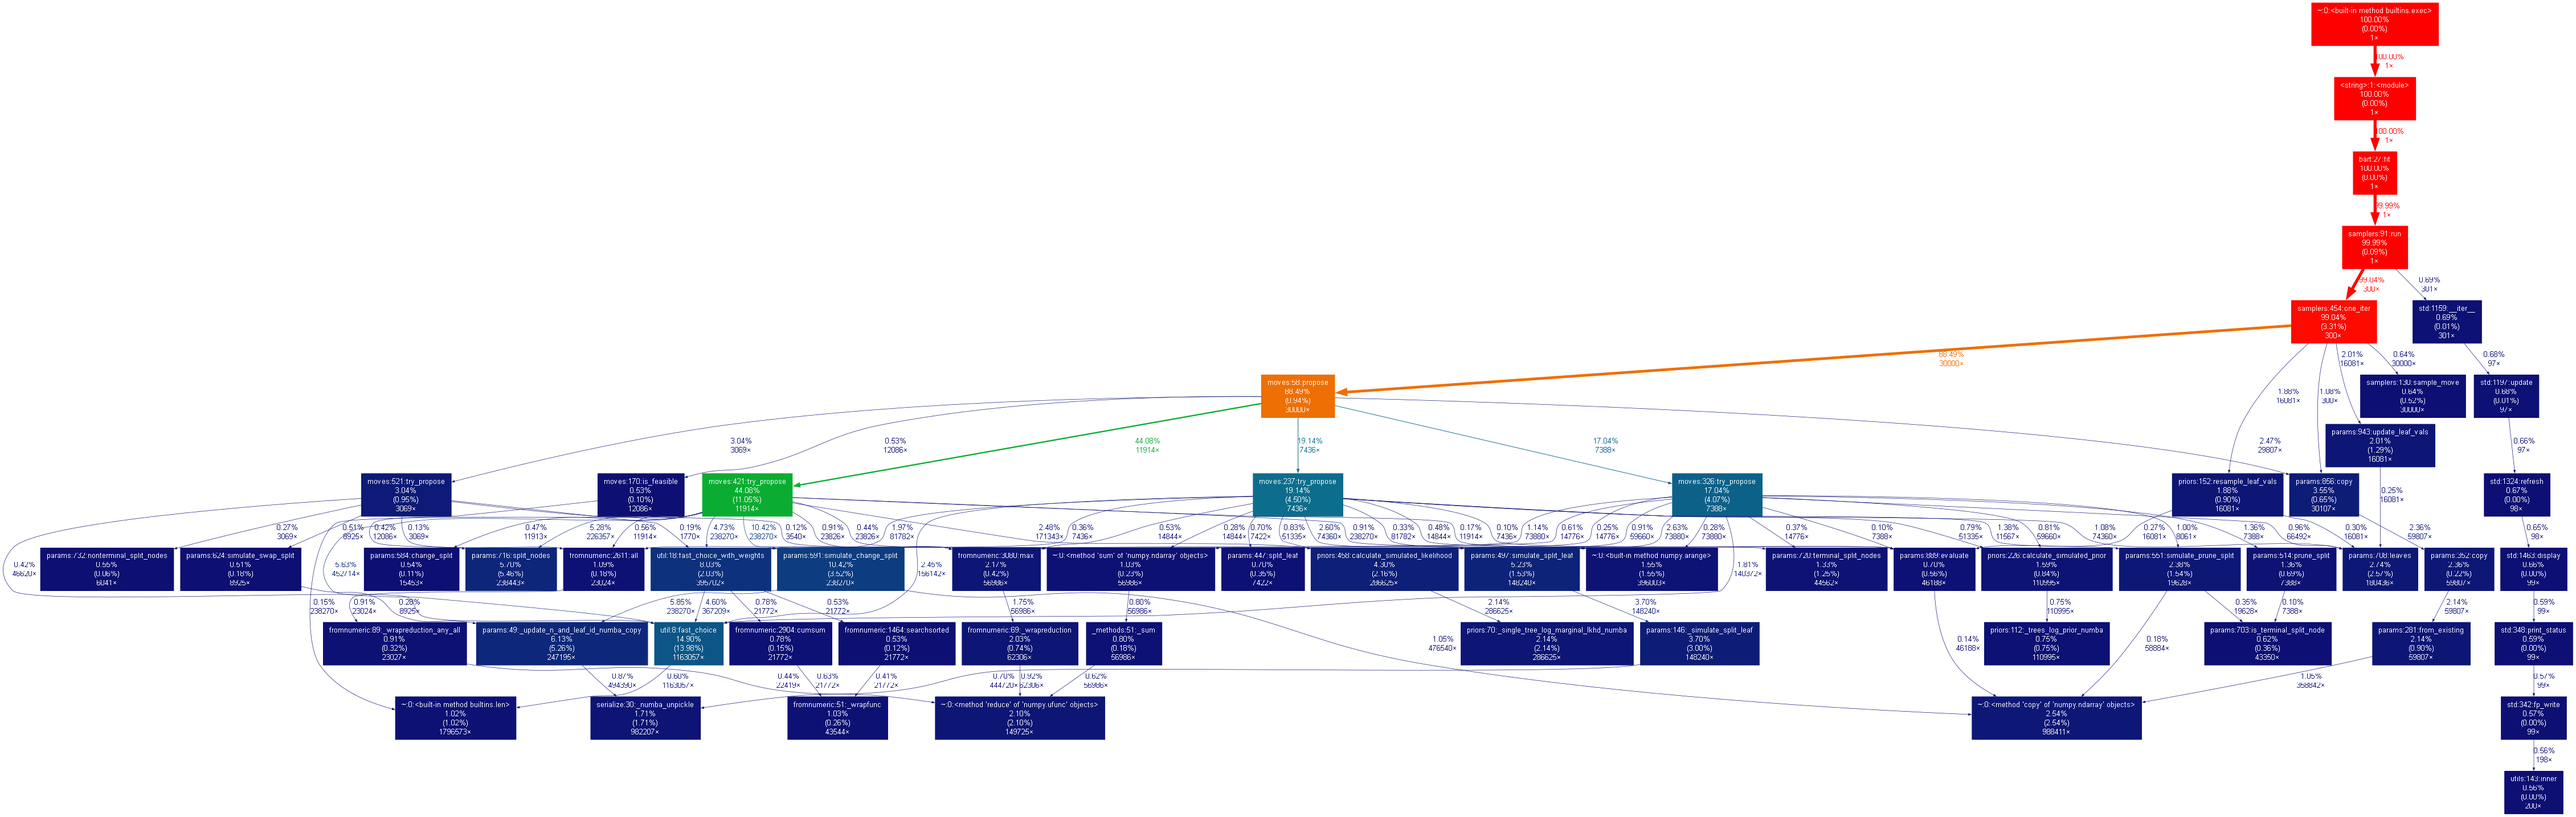
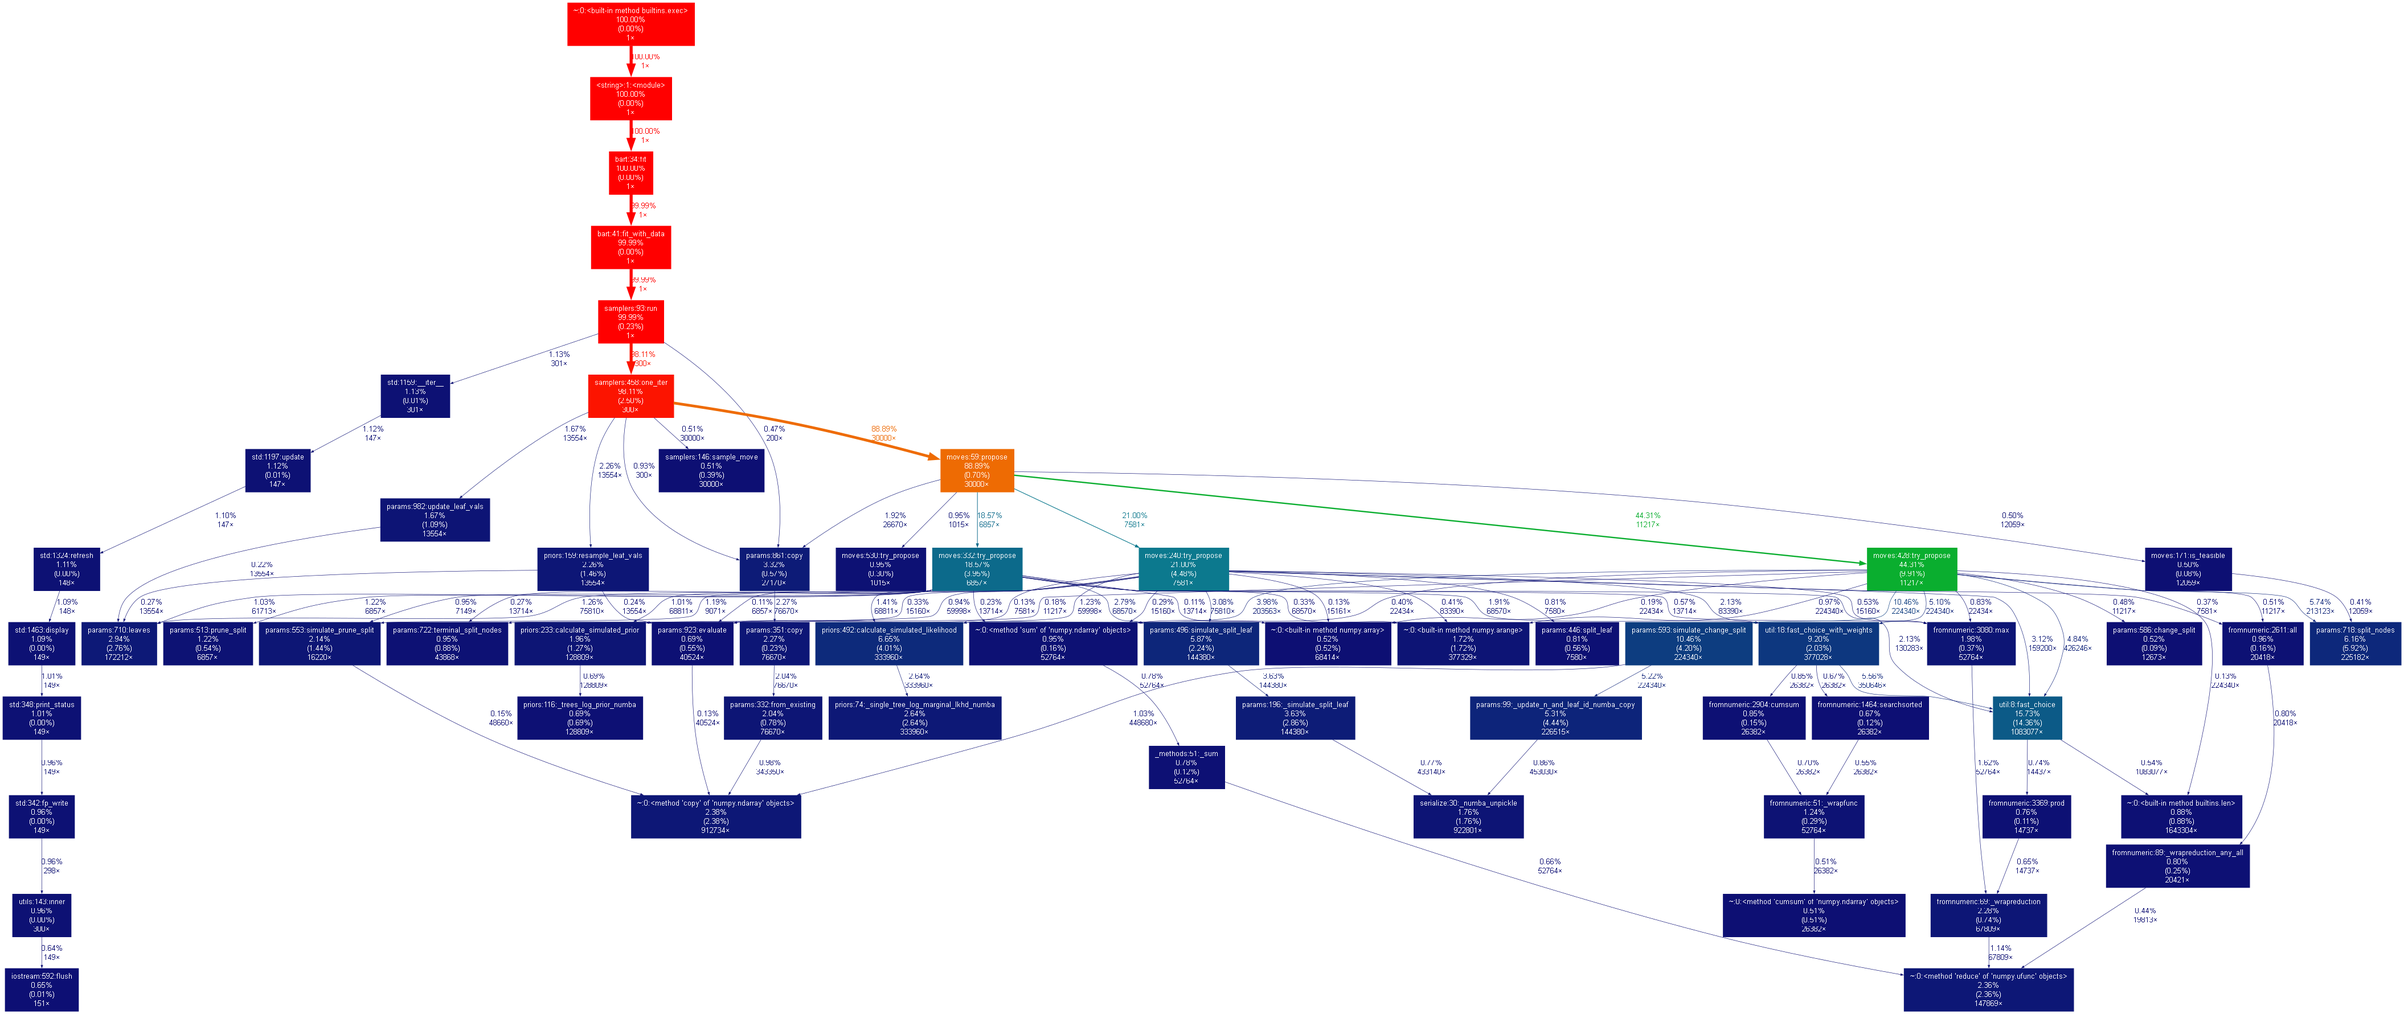
Add back mtmh properties

diff --git a/bart_playground/priors.py b/bart_playground/priors.py
@@ -258,13 +258,14 @@ class GlobalParamPrior:
         specification (str): Method for initial variance estimate
         generator: Random number generator
     """
-    def __init__(self, eps_q, eps_nu, specification, generator, dirichlet_prior, s_alpha, fixed_eps_sigma2=None):
+    def __init__(self, eps_q, eps_nu, specification, generator, dirichlet_prior, s_alpha, fixed_eps_sigma2=None, init_sigma2=None):
         self.eps_q = eps_q
         self.eps_nu = eps_nu
         self.eps_lambda : float
         self.specification = specification
         self.generator = generator
         self.dirichlet_prior = dirichlet_prior
+        self.init_sigma2 = init_sigma2
         self.s_alpha = s_alpha
         self.fixed_eps_sigma2 = fixed_eps_sigma2
 
@@ -290,6 +291,8 @@ class GlobalParamPrior:
         """
         if self.fixed_eps_sigma2 is not None:
             eps_sigma2 = np.array([self.fixed_eps_sigma2], dtype=float)
+        elif self.init_sigma2 is not None:
+            eps_sigma2 = self.init_sigma2
         else:
             self.fit_hyperparameters(data)
             eps_sigma2 = self._sample_eps_sigma2(data.y)
@@ -500,9 +503,9 @@ class BARTLikelihood:
 
 class ComprehensivePrior:
     def __init__(self, n_trees, tree_alpha, tree_beta, f_k, eps_q, eps_nu, 
-                 specification, generator, dirichlet_prior, quick_decay, s_alpha, fixed_eps_sigma2=None):
+                 specification, generator, dirichlet_prior, quick_decay, s_alpha, fixed_eps_sigma2=None, init_sigma2=None):
         self.tree_prior = TreesPrior(int(n_trees), tree_alpha, tree_beta, f_k, generator, quick_decay=quick_decay)
-        self.global_prior = GlobalParamPrior(eps_q, eps_nu, specification, generator, dirichlet_prior, s_alpha, fixed_eps_sigma2=fixed_eps_sigma2)
+        self.global_prior = GlobalParamPrior(eps_q, eps_nu, specification, generator, dirichlet_prior, s_alpha, fixed_eps_sigma2=fixed_eps_sigma2, init_sigma2=init_sigma2)
         self.likelihood = BARTLikelihood(self.tree_prior.f_sigma2)
 
 class ProbitPrior:

diff --git a/bart_playground/bart.py b/bart_playground/bart.py
@@ -280,7 +280,8 @@ class DefaultBART(BART):
                  eps_nu: float=3, specification="linear", 
                  proposal_probs=default_proposal_probs, tol=100, max_bins=100,
                  random_state=42, temperature=1.0, dirichlet_prior=False, quick_decay: bool = False,
-                 s_alpha: float = 1.0, fixed_eps_sigma2: Optional[float] = None):
+                 s_alpha: float = 1.0, fixed_eps_sigma2: Optional[float] = None,
+                 init_trees=None, init_sigma2=None):
         if max_bins is None:
             max_bins = 100
         preprocessor = self.preprocessor_class(max_bins=max_bins)
@@ -674,11 +675,12 @@ class MultiBART(BART):
                  eps_nu: float=3, specification="linear", 
                  proposal_probs=default_proposal_probs, tol=1, max_bins=100,
                  random_state=42, temperature=1.0, multi_tries=10, dirichlet_prior=False, 
+                 s_alpha: float = 1.0, fixed_eps_sigma2: Optional[float] = None,
                  quick_decay: bool = False, init_trees=None, init_sigma2=None):
         preprocessor = DefaultPreprocessor(max_bins=max_bins)
         rng = np.random.default_rng(random_state)
         prior = ComprehensivePrior(n_trees, tree_alpha, tree_beta, f_k, eps_q, 
-                             eps_nu, specification, rng, dirichlet_prior, quick_decay=quick_decay, init_sigma2=init_sigma2)
+                             eps_nu, specification, rng, dirichlet_prior, quick_decay=quick_decay, s_alpha=s_alpha, fixed_eps_sigma2=fixed_eps_sigma2, init_sigma2=init_sigma2)
         temp_schedule = self._check_temperature(temperature)
         sampler = MultiSampler(
             prior=prior, proposal_probs=proposal_probs, generator=rng, tol=tol, 
